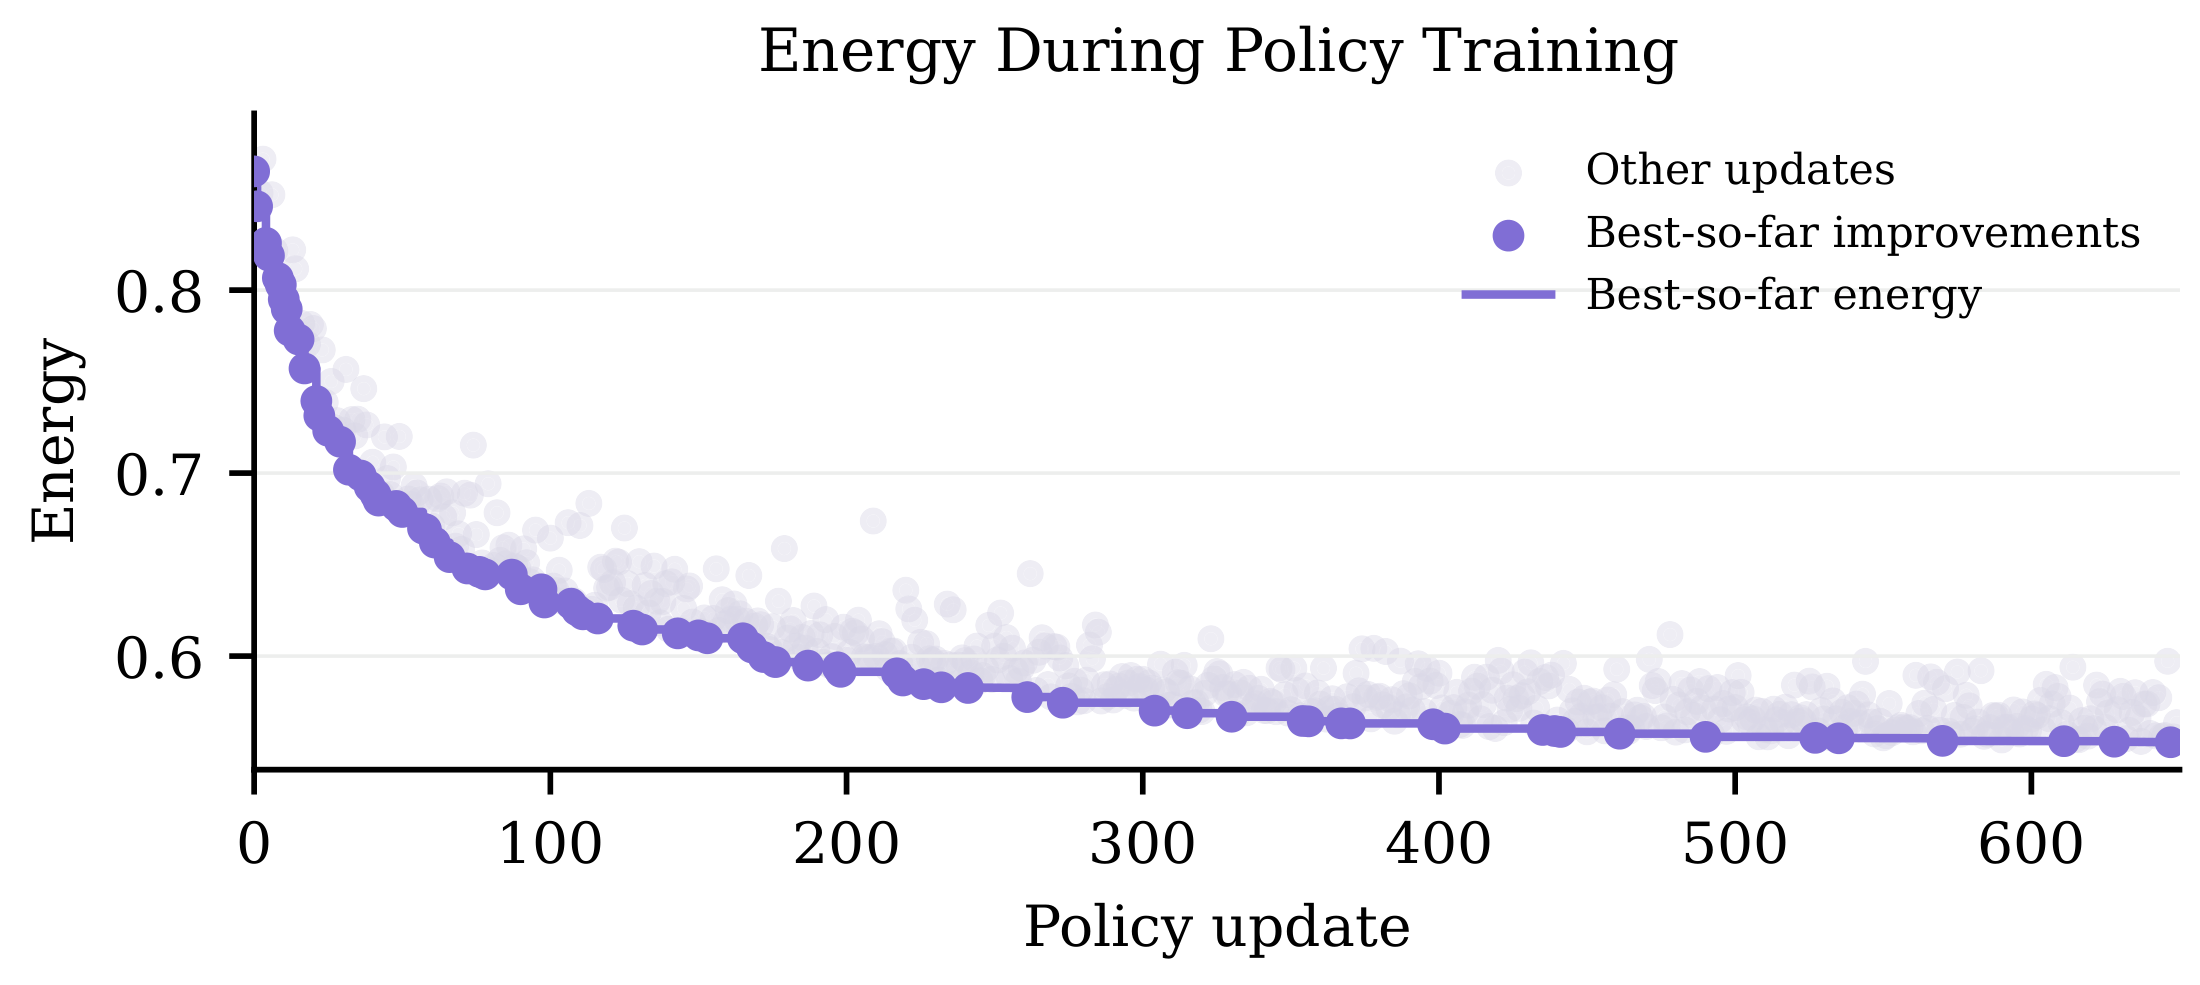
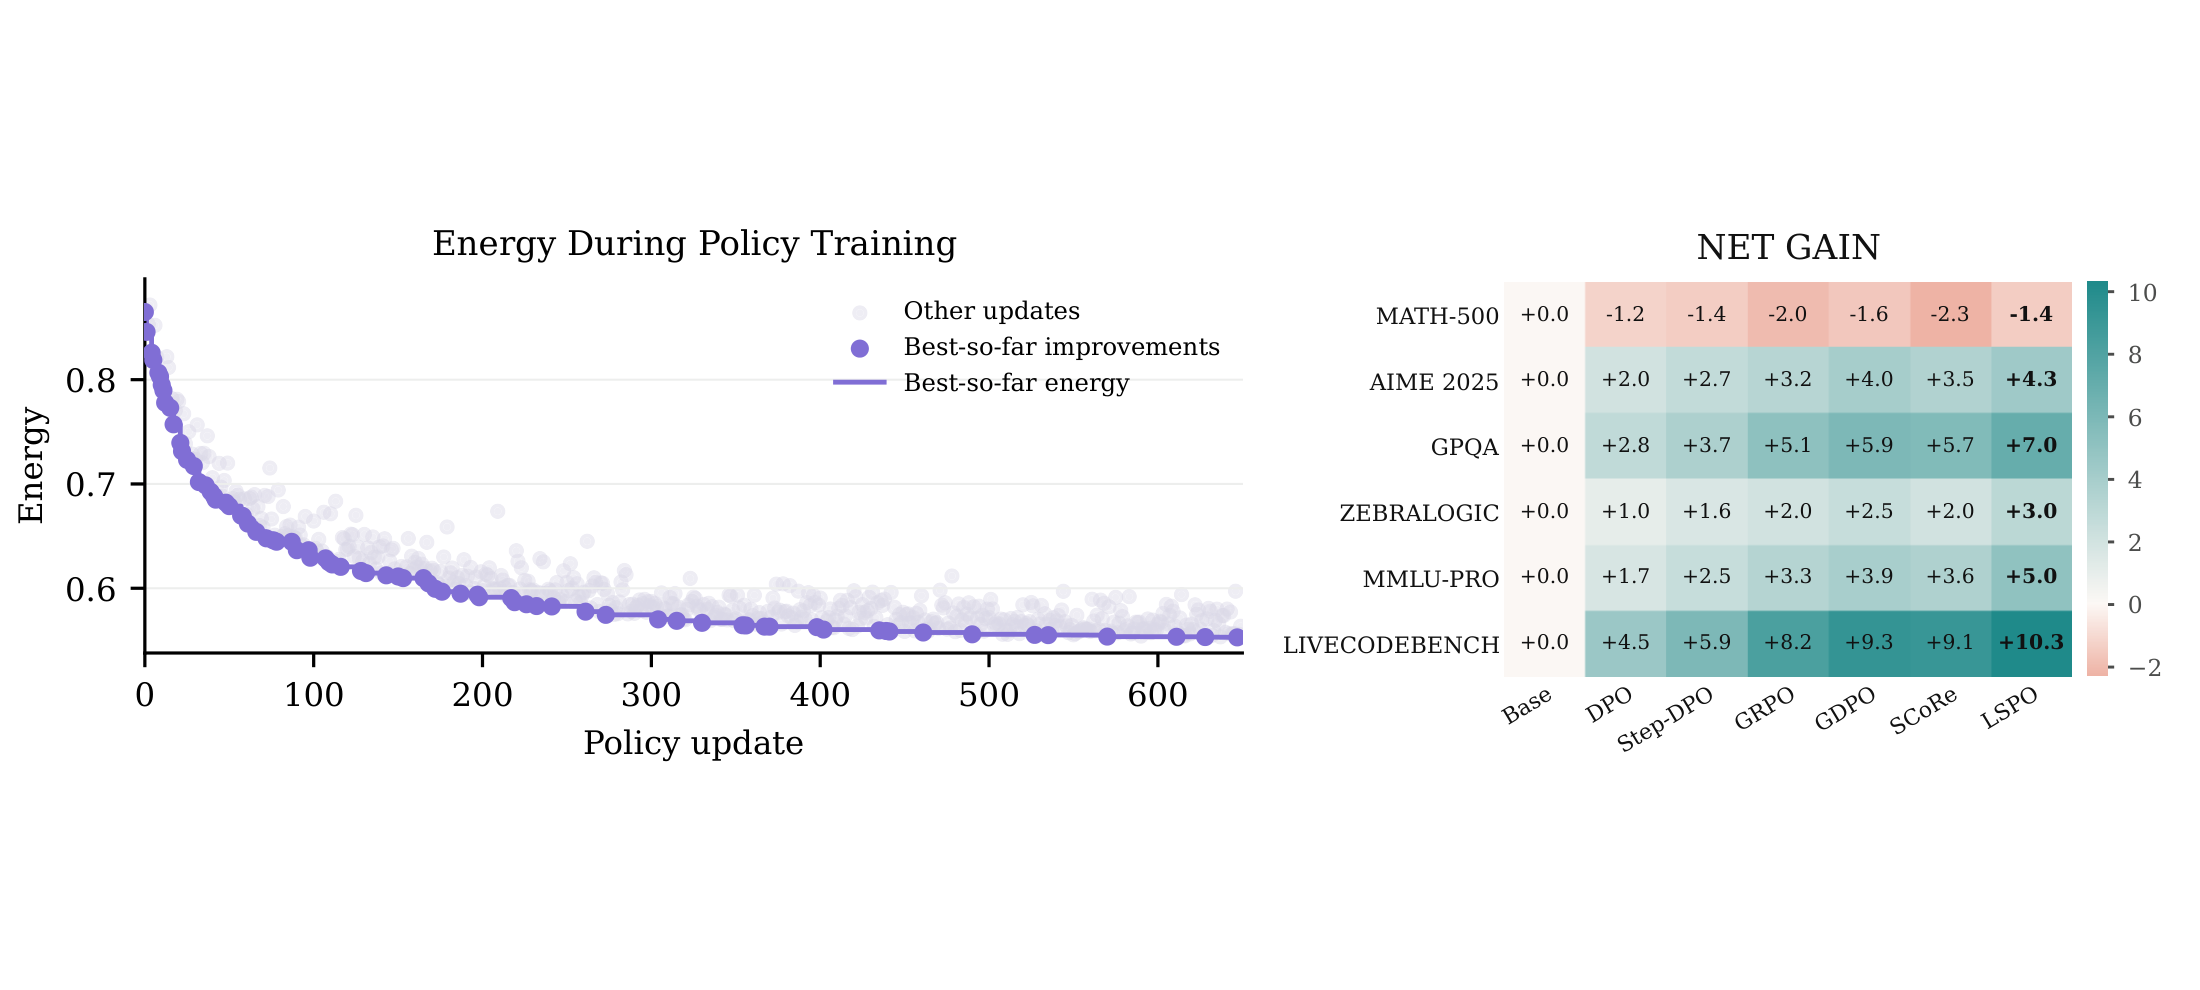
Align figure and table captions with ICLR manuscript

diff --git a/README.md b/README.md
@@ -10,23 +10,23 @@ LSPO trains language models to internalize answer correction. Each answer is pai
 
 ![Qwen3.5-27B benchmark results, rollout-to-direct alignment, and energy separation](assets/figure1.png)
 
-Benchmark performance on Qwen3.5-27B, alignment between rollout-selected answers and direct generation, and final-energy distributions for correct and incorrect answers.
+Improvements found during training persist in direct generation. On Qwen3.5-27B, the LSPO policy attains the highest aggregate direct pass@1 and pass@16 accuracy across benchmarks in the left panels, selected training endpoints align closely with deployed outputs in the top right, and final energy separates correct from incorrect answers in the bottom right.
 
 ### Method
 
 ![Comparison of answer-level optimization, trajectory RL, and LSPO](assets/method.png)
 
-**Comparison with answer-level optimization and trajectory RL.** LSPO assigns credit to transitions in the lifted state space and internalizes the selected answers.
+Comparison of training paradigms. Preference learning in the top left panel optimizes static final answers, while trajectory RL in the top right panel maximizes returns across full rollouts. LSPO in the bottom panel assigns credit to local transitions and internalizes selected endpoints.
 
 <img src="assets/formulas_combined.png" alt="LSPO reward and optimization objective" width="80%" />
 
-**Training objective.** Energy decrease supplies transition credit, with edit and step penalties. KL regularization constrains policy updates, while answer internalization trains the generator on selected answers.
+Annotated reward and objective for LSPO. The assignment of credit per step, the regularization of the policy, and direct training on the answer occupy distinct terms within the update.
 
 <p align="center">
   <img src="assets/fig1_drawio.png" alt="LSPO framework: lifted states and answer internalization" width="80%" />
 </p>
 
-**LSPO framework.** Correction proceeds through lifted states, and selected answers provide targets for direct generation.
+A single LSPO training update. Move shaping in the lifted space and answer internalization act concurrently on the selected candidate.
 
 ### Benchmark Results
 
@@ -38,11 +38,15 @@ The paper evaluates Qwen3.5-9B and Qwen3.5-27B dense models, together with the Q
   <img src="assets/figure6_pass16_benchmarks_qwen35_9b.png" alt="Qwen3.5-9B benchmark results" width="80%" />
 </p>
 
+Benchmark profile for Qwen3.5-9B. LSPO improves direct accuracy while preserving substantial sampled pass@16 headroom in the smaller dense backbone.
+
 **Qwen3.5-27B**
 
 <p align="center">
   <img src="assets/figure6_pass16_benchmarks_qwen35_27b.png" alt="Qwen3.5-27B benchmark results" width="80%" />
 </p>
+
+Benchmark profile for Qwen3.5-27B. LSPO achieves consistent direct gains while preserving the sampled pass@16 envelope.
 
 **Qwen3.5-35B-A3B**
 
@@ -50,11 +54,13 @@ The paper evaluates Qwen3.5-9B and Qwen3.5-27B dense models, together with the Q
   <img src="assets/figure6_pass16_benchmarks_qwen35_35b_a3b.png" alt="Qwen3.5-35B-A3B benchmark results" width="80%" />
 </p>
 
+Benchmark profile for Qwen3.5-35B-A3B. LSPO remains the strongest direct policy as available performance headroom narrows in the MoE backbone.
+
 ### Quality and Internalization
 
 ![Quality, sampling, correction transitions, and output cost on Qwen3.5-27B](assets/results.png)
 
-**Quality and cost on Qwen3.5-27B.** LSPO achieves an aggregate pass@1 score of 71.8%, with an average latency of 10.93 seconds and 1,265 output tokens in the paper's evaluation.
+Quality, sampling, revision, and token cost on Qwen3.5-27B. LSPO reaches 71.8% accuracy at 10.9 s latency in a single pass; test-time reflection adds 0.1 points but costs 4.3 s more and 440 additional tokens. LSPO remains above the pass@$k$ curve, most often converts incorrect answers to correct ones, and avoids the long latency tail of repeated refinement.
 
 ### Training Dynamics
 
@@ -62,22 +68,24 @@ The paper evaluates Qwen3.5-9B and Qwen3.5-27B dense models, together with the Q
   <img src="assets/figure5_training_dynamics.png" alt="Transition stability, net gain, and direct performance during training" width="50%" />
 </p>
 
-**Training dynamics.** Transition stability, net correction gain, and direct pass@1 over 15,000 training steps.
+Training dynamics across transition stability, net gain, and direct accuracy. Transition stability and net gain plateau before direct accuracy, consistent with the geometric landscape forming before the generator absorbs it.
 
 <p align="center">
   <img src="assets/geometric_descent.png" alt="Energy during policy training" width="80%" />
 </p>
 
-**Energy during policy training.** Highlighted points mark improvements in the lowest energy observed so far; the line tracks that running minimum across policy updates.
+Policy-training energy and task-level net gains. The left panel shows recorded energy across policy updates, where the curve tracks the cumulative minimum and points mark new minima. The right panel independently reports net correction gains across benchmarks.
 
-Component ablations on Qwen3.5-27B:
+Component ablations on Qwen3.5-27B. The full LSPO stack leads in aggregate score while controlling latency, output length, and training cost.
 
-| Variant | Aggregate pass@1 (%) | Average latency (s) | Average output tokens |
-| --- | ---: | ---: | ---: |
-| **LSPO** | **71.8** | **10.93** | **1,265** |
-| Without lifting | 70.9 | 11.70 | 1,316 |
-| Without progress reward | 70.0 | 12.35 | 1,366 |
-| Without internalization | 70.3 | 12.02 | 1,341 |
+| Variant | Agg. | Net gain | Latency (s) | Tokens | GPU hrs |
+| --- | ---: | ---: | ---: | ---: | ---: |
+| LSPO full | 71.8 | 4.7 | 10.93 | 1265 | 2983 |
+| - w/o lifting | 70.9 | 3.2 | 11.70 | 1316 | 2804 |
+| - w/o progress reward | 70.0 | 1.6 | 12.35 | 1366 | 2715 |
+| - w/o internalization | 70.3 | 2.4 | 12.02 | 1341 | 2566 |
+| GRPO | 70.0 | 3.3 | 12.04 | 1370 | 2386 |
+| DPO | 66.9 | 1.8 | 10.42 | 1196 | 1218 |
 
 ## Initialization
 
@@ -95,12 +103,14 @@ Minimum hardware: **8 × NVIDIA A100 80GB GPUs**, or GPUs with equivalent or gre
 
 Training sources are specified in `data.sources` in [configs/paper.json](configs/paper.json). The loader downloads their training splits through Hugging Face Datasets. Ensure that the datasets and the configured model weights are accessible before training.
 
-| Domain | Dataset | Configured prompt budget |
+Training corpus mixture and sample counts shared by the compared methods.
+
+| Task family | Public corpus source | Samples |
 | --- | --- | ---: |
-| Mathematics | [OpenR1-Math-220k](https://huggingface.co/datasets/open-r1/OpenR1-Math-220k) | 38,000 |
-| Code | [TACO](https://huggingface.co/datasets/BAAI/TACO) | 24,000 |
-| Science | [SciQ](https://huggingface.co/datasets/allenai/sciq) | 18,000 |
-| Logic | [LogicLM](https://huggingface.co/datasets/longface/logicLM) | 12,000 |
+| Math | [open-r1/OpenR1-Math-220k](https://huggingface.co/datasets/open-r1/OpenR1-Math-220k) | 38,000 |
+| Code | [BAAI/TACO](https://huggingface.co/datasets/BAAI/TACO) | 24,000 |
+| Science | [allenai/sciq](https://huggingface.co/datasets/allenai/sciq) | 18,000 |
+| Logic | [longface/logicLM](https://huggingface.co/datasets/longface/logicLM) | 12,000 |
 
 Set the dataset identifiers in `data.sources` and the per-domain budgets in `data.mixture`. The default backbone is [Qwen3.5-27B](https://huggingface.co/Qwen/Qwen3.5-27B), configured through `model.backbone`.
 
